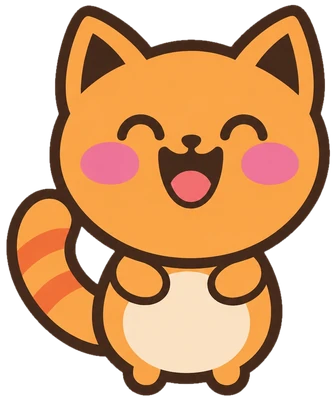
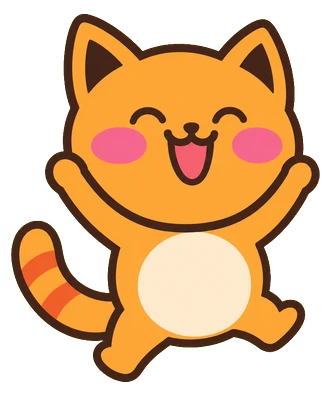
Confidence slider: the cat has a body for each state, leans into a drag and hops between poses (#362)
- Five new poses in place of the five stiff, upright ones (same file names,
  336x400, WebP + PNG, image-generated from the mascot's own cat3-* art):
  worried is crouched small with its tail wrapped and paws to its mouth,
  unsure sits with a paw to its chin, okay is a relaxed lean-back sit, happy
  is perky with its tail up, delighted is mid-hop with its arms up. All five
  share one base line (396 of 400) so they swap in place.
- The cat stands on the rail instead of straddling it, a little larger
  (111x132), and stays inside the sheet at 0 and at 10.
- Motion: it leans a few degrees into a drag and settles when the pointer
  stops or lets go; arrow and other keys give the same lean and settle; a
  small squash-and-hop when it crosses into a new pose; poses cross-fade.
  None of it with prefers-reduced-motion.
- The keyboard focus ring no longer shows while dragging with a pointer.
- Debrief: the "You said / You got" cats are 52px (were 44px) so the new
  full-body poses still read; the row is its own component.
- /design/confidence: a design preview of the slider and the debrief row
  with fixture data (404 in production, like the other previews).

Claude-Session: https://claude.ai/code/session_01TGR4JvJreRsK42GmW4qkjw

diff --git a/src/components/session/confidence-slider.tsx b/src/components/session/confidence-slider.tsx
@@ -1,33 +1,95 @@
 "use client";
 
 import Image from "next/image";
-import { useRef } from "react";
+import { useEffect, useRef, type PointerEvent } from "react";
 import { useI18n } from "@/lib/i18n";
 import "@/lib/i18n/start-check";
 import { cn } from "@/lib/utils";
 import { CONFIDENCE_FACES, CONFIDENCE_MAX, clampConfidence, confidenceCat, confidenceFace, sliderKeyValue, valueFromPointer } from "@/lib/start-check";
 
-/** Half the cat's width: the track is inset by this much so the cat never leaves the sheet. */
-const INSET = 40;
+/** How far the track is inset from the slider's edges, so the cat stays inside the sheet at 0 and at 10. */
+const INSET = 44;
+/** The most the cat tips into a drag, in degrees. */
+const LEAN_MAX = 8;
+/** How long after the last movement the cat stands back up. */
+const SETTLE_MS = 130;
+
+const reducedMotion = () => typeof window !== "undefined" && window.matchMedia("(prefers-reduced-motion: reduce)").matches;
 
 /**
  * "How confident are you?" as one drag. The cat is the handle: it rides the
- * track from 0 to 10 and its face goes from worried to delighted on the way.
- * A real slider for assistive tech (role, value, a spoken "3 out of 10,
- * unsure"), arrow / Page / Home / End / digit keys, and a touch or a drag
- * anywhere on the track.
+ * track from 0 to 10 and its whole body goes from crouched and worried to a
+ * delighted hop on the way. It leans into a drag (or an arrow key) and
+ * settles when it stops, and does a small squash-and-hop when it changes
+ * pose; none of that with reduced motion. A real slider for assistive tech
+ * (role, value, a spoken "3 out of 10, unsure"), arrow / Page / Home / End /
+ * digit keys, and a touch or a drag anywhere on the track.
  */
 export function ConfidenceSlider({ value, onChange, labelledBy, className }: { value: number; onChange: (value: number) => void; labelledBy?: string; className?: string }) {
   const { t } = useI18n();
   const trackRef = useRef<HTMLDivElement>(null);
+  const leanRef = useRef<HTMLDivElement>(null);
+  const hopRef = useRef<HTMLDivElement>(null);
+  const lastX = useRef<number | null>(null);
+  const settle = useRef<ReturnType<typeof setTimeout> | null>(null);
   const v = clampConfidence(value);
   const face = confidenceFace(v);
   const word = t(`startCheck.face.${face}`);
   const pct = (v / CONFIDENCE_MAX) * 100;
 
+  /** Tip the cat `deg` degrees about its feet; it stands back up once nothing has moved for a moment. */
+  const lean = (deg: number) => {
+    const el = leanRef.current;
+    if (!el) return;
+    if (settle.current) clearTimeout(settle.current);
+    settle.current = null;
+    const to = reducedMotion() ? 0 : Math.max(-LEAN_MAX, Math.min(LEAN_MAX, deg));
+    el.style.transform = to ? `rotate(${to.toFixed(1)}deg)` : "";
+    el.dataset.lean = to > 0 ? "right" : to < 0 ? "left" : "none";
+    if (to)
+      settle.current = setTimeout(() => {
+        el.style.transform = "";
+        el.dataset.lean = "none";
+      }, SETTLE_MS);
+  };
+
+  useEffect(
+    () => () => {
+      if (settle.current) clearTimeout(settle.current);
+    },
+    [],
+  );
+
+  // A new pose lands with a small squash and hop, so the swap reads as the cat moving, not a picture changing.
+  const shownFace = useRef(face);
+  useEffect(() => {
+    if (shownFace.current === face) return;
+    shownFace.current = face;
+    if (reducedMotion()) return;
+    hopRef.current?.animate(
+      [
+        { transform: "translateY(0) scale(1, 1)" },
+        { transform: "translateY(0) scale(1.08, 0.9)", offset: 0.22 },
+        { transform: "translateY(-9px) scale(0.96, 1.05)", offset: 0.55 },
+        { transform: "translateY(0) scale(1.04, 0.96)", offset: 0.82 },
+        { transform: "translateY(0) scale(1, 1)" },
+      ],
+      { duration: 360, easing: "ease-out" },
+    );
+  }, [face]);
+
   const fromPointer = (clientX: number) => {
     const rect = trackRef.current?.getBoundingClientRect();
     if (rect) onChange(valueFromPointer(clientX, rect.left, rect.width));
+    // Into the drag: a few degrees for any movement, a little more for a fast one.
+    const dx = lastX.current === null ? 0 : clientX - lastX.current;
+    if (dx) lean(Math.sign(dx) * (3 + Math.abs(dx) * 0.5));
+    lastX.current = clientX;
+  };
+  const release = (e: PointerEvent<HTMLDivElement>) => {
+    delete e.currentTarget.dataset.dragging;
+    lastX.current = null;
+    lean(0);
   };
 
   return (
@@ -49,50 +111,66 @@ export function ConfidenceSlider({ value, onChange, labelledBy, className }: { v
           if (next === null) return;
           e.preventDefault();
           onChange(next);
+          if (next !== v) lean(next > v ? 5 : -5);
         }}
         onPointerDown={(e) => {
           if (e.button !== 0 && e.pointerType === "mouse") return;
           e.currentTarget.setPointerCapture(e.pointerId);
           e.currentTarget.focus({ preventScroll: true });
+          e.currentTarget.dataset.dragging = "true";
+          lastX.current = null;
           fromPointer(e.clientX);
         }}
+        onPointerUp={release}
+        onPointerCancel={release}
+        onLostPointerCapture={release}
         onPointerMove={(e) => {
           if (e.currentTarget.hasPointerCapture(e.pointerId)) fromPointer(e.clientX);
         }}
-        className="group relative h-[136px] w-full cursor-grab touch-none rounded-2xl outline-none active:cursor-grabbing"
+        className="group relative h-[164px] w-full cursor-grab touch-none rounded-2xl outline-none active:cursor-grabbing"
         style={{ paddingInline: INSET }}
       >
         <div ref={trackRef} className="relative h-full w-full">
           {/* The track: a quiet rail, filled in the cat's orange up to the cat. */}
-          <div className="absolute inset-x-0 bottom-[14px] h-3 rounded-full bg-muted" aria-hidden>
-            <div className="h-full rounded-full bg-[#f6a53b] transition-[width] duration-150 ease-out" style={{ width: `${pct}%` }} />
+          <div className="absolute inset-x-0 bottom-[10px] h-3 rounded-full bg-muted" aria-hidden>
+            <div className="h-full rounded-full bg-[#f6a53b] transition-[width] duration-150 ease-out motion-reduce:transition-none" style={{ width: `${pct}%` }} />
           </div>
           {/* One notch a number, so a tap lands where it looks like it will. */}
-          <div className="absolute inset-x-0 bottom-[18px] flex justify-between" aria-hidden>
+          <div className="absolute inset-x-0 bottom-[14px] flex justify-between" aria-hidden>
             {Array.from({ length: CONFIDENCE_MAX + 1 }, (_, i) => (
               <span key={i} className={cn("size-1 -translate-x-1/2 rounded-full first:translate-x-0 last:translate-x-0", i <= v ? "bg-white/80" : "bg-border-strong")} />
             ))}
           </div>
-          {/* The cat. All five faces are mounted so a drag never waits on a download; one shows. */}
+          {/*
+            The cat, standing on the rail: every pose shares one base line (396 of 400), which lands a
+            few pixels into the rail. All five poses are mounted so a drag never waits on a download;
+            one shows, and they cross-fade.
+          */}
           <div
-            className="absolute bottom-[6px] h-[112px] w-[94px] -translate-x-1/2 transition-[left] duration-150 ease-out group-focus-visible:[&>span]:opacity-100"
+            className="absolute bottom-[17px] h-[132px] w-[111px] -translate-x-1/2 transition-[left] duration-150 ease-out motion-reduce:transition-none"
             style={{ left: `${pct}%` }}
+            data-confidence-cat
             aria-hidden
           >
-            <span className="pointer-events-none absolute -inset-x-1 -bottom-1 top-0 rounded-[28px] border-[3px] border-foreground opacity-0" />
-            {CONFIDENCE_FACES.map((f) => (
-              <Image
-                key={f}
-                src={confidenceCat(f)}
-                alt=""
-                width={336}
-                height={400}
-                unoptimized
-                priority={f === face}
-                draggable={false}
-                className={cn("absolute inset-0 h-full w-full object-contain transition-opacity duration-150", f === face ? "opacity-100" : "opacity-0")}
-              />
-            ))}
+            {/* The keyboard focus ring; never while a finger or the mouse is dragging. */}
+            <span className="pointer-events-none absolute -inset-x-1 -bottom-[14px] -top-1.5 rounded-[28px] border-[3px] border-foreground opacity-0 group-focus-visible:opacity-100 group-data-[dragging=true]:opacity-0" />
+            <div ref={leanRef} data-lean="none" className="absolute inset-0 origin-[50%_97%] transition-transform duration-300 ease-[cubic-bezier(0.34,1.56,0.64,1)] will-change-transform motion-reduce:transition-none">
+              <div ref={hopRef} className="absolute inset-0 origin-[50%_99%]">
+                {CONFIDENCE_FACES.map((f) => (
+                  <Image
+                    key={f}
+                    src={confidenceCat(f)}
+                    alt=""
+                    width={336}
+                    height={400}
+                    unoptimized
+                    priority={f === face}
+                    draggable={false}
+                    className={cn("absolute inset-0 h-full w-full object-contain transition-opacity duration-150 ease-out motion-reduce:transition-none", f === face ? "opacity-100" : "opacity-0")}
+                  />
+                ))}
+              </div>
+            </div>
           </div>
         </div>
       </div>

diff --git a/src/components/session/session-debrief.tsx b/src/components/session/session-debrief.tsx
@@ -2,7 +2,7 @@
 
 import { useNewUi } from "@/lib/new-ui";
 import { MathText } from "@/components/ui/markdown-text";
-import { useEffect, useState, type ReactNode } from "react";
+import { useEffect, useState, type CSSProperties, type ReactNode } from "react";
 import { Button } from "@/components/ui/button";
 import Link from "next/link";
 import Image from "next/image";
@@ -54,7 +54,7 @@ import { noteHref } from "@/lib/notes";
 import { track, type DebriefNextKind } from "@/lib/funnel";
 import "@/lib/i18n/purpose";
 import "@/lib/i18n/start-check";
-import { confidenceCat, confidenceFace, confidenceResult, type ConfidenceFace } from "@/lib/start-check";
+import { confidenceCat, confidenceFace, confidenceResult, type ConfidenceFace, type ConfidenceVerdict } from "@/lib/start-check";
 import { difficultyResults, quick5SaidGot } from "@/lib/quick5-confidence";
 import "@/lib/i18n/quick5-confidence";
 import type { ApiSessionDebrief, ApiSessionStats } from "@/lib/api/study-session";
@@ -294,7 +294,7 @@ function AnswerDots({ dots, correct, wrong, href }: { dots: boolean[]; correct: 
 function SaidGot({ face, label, value, max = 10, strong = false }: { face: ConfidenceFace; label: string; value: number; max?: number; strong?: boolean }) {
   return (
     <span className="flex items-center gap-2">
-      <Image src={confidenceCat(face)} alt="" width={336} height={400} unoptimized className="h-11 w-auto" />
+      <Image src={confidenceCat(face)} alt="" width={336} height={400} unoptimized className="h-[52px] w-auto" />
       <span className="flex flex-col">
         <span className="text-caption font-bold leading-4 text-muted-foreground">{label}</span>
         <span className={cn("text-[22px] font-extrabold leading-6 tabular-nums", strong ? "text-foreground" : "text-muted-foreground")}>
@@ -318,6 +318,49 @@ function Quick5ExamLine({ exam, fallback }: { exam: { right: number; total: numb
       <span className="font-extrabold text-foreground">{t("quick5Conf.examLevel").replace("{r}", String(exam.right)).replace("{n}", String(exam.total))}</span>{" "}
       {t(exam.right < exam.total ? "quick5Conf.examLevelMissed" : "quick5Conf.examLevelAll")}
     </p>
+  );
+}
+
+/**
+ * "You said 3/10 → You got 7/10" and what that means: the one comparison only
+ * the debrief can make. A Quick 5 puts its own score on the right ("3/5",
+ * with the cat for the same result out of ten) and its exam-level line below.
+ */
+export function SaidGotRow({
+  said,
+  got,
+  of = 10,
+  gotFace = confidenceFace(got),
+  verdict,
+  spoken,
+  children,
+  className,
+  style,
+}: {
+  said: number;
+  got: number;
+  /** What `got` is out of, when it is not ten. */
+  of?: number;
+  gotFace?: ConfidenceFace;
+  verdict: ConfidenceVerdict;
+  /** The sentence a screen reader hears; "You said a/10, you got b/10" by default. */
+  spoken?: string;
+  /** The line under the cats; the verdict by default. */
+  children?: ReactNode;
+  className?: string;
+  style?: CSSProperties;
+}) {
+  const { t } = useI18n();
+  return (
+    <div className={className} style={style} data-confidence-result={verdict}>
+      <p className="sr-only">{spoken ?? t("finish.saidGot").replace("{a}", String(said)).replace("{b}", String(got))}</p>
+      <div className="flex items-center gap-3" aria-hidden>
+        <SaidGot face={confidenceFace(said)} label={t("finish.said")} value={said} />
+        <ArrowRight className="size-5 shrink-0 text-faint" />
+        <SaidGot face={gotFace} label={t("finish.got")} value={got} max={of} strong />
+      </div>
+      {children ?? <p className="mt-2 text-ui font-semibold text-muted-foreground">{t(`finish.verdict.${verdict}`)}</p>}
+    </div>
   );
 }
 
@@ -712,26 +755,21 @@ export function SessionDebrief({
 
         {/* What they said beside what they got: the one comparison only this screen can make. */}
         {quick ? (
-          <div className="life-rise mt-5 px-1" style={{ ["--i" as string]: 2 }} data-confidence-result={quick.verdict}>
-            <p className="sr-only">{t("quick5Conf.saidGot").replace("{a}", String(quick.said)).replace("{b}", String(quick.got)).replace("{n}", String(quick.of))}</p>
-            <div className="flex items-center gap-3" aria-hidden>
-              <SaidGot face={confidenceFace(quick.said)} label={t("finish.said")} value={quick.said} />
-              <ArrowRight className="size-5 shrink-0 text-faint" />
-              <SaidGot face={confidenceFace(said?.got ?? quick.said)} label={t("finish.got")} value={quick.got} max={quick.of} strong />
-            </div>
+          <SaidGotRow
+            said={quick.said}
+            got={quick.got}
+            of={quick.of}
+            gotFace={confidenceFace(said?.got ?? quick.said)}
+            verdict={quick.verdict}
+            spoken={t("quick5Conf.saidGot").replace("{a}", String(quick.said)).replace("{b}", String(quick.got)).replace("{n}", String(quick.of))}
+            className="life-rise mt-5 px-1"
+            style={{ ["--i" as string]: 2 }}
+          >
             {/* Missed an exam-level one: they were meant to be hard, not a verdict on the student. */}
             <Quick5ExamLine exam={exam} fallback={t(`finish.verdict.${quick.verdict}`)} />
-          </div>
+          </SaidGotRow>
         ) : said ? (
-          <div className="life-rise mt-5 px-1" style={{ ["--i" as string]: 2 }} data-confidence-result={said.verdict}>
-            <p className="sr-only">{t("finish.saidGot").replace("{a}", String(said.said)).replace("{b}", String(said.got))}</p>
-            <div className="flex items-center gap-3" aria-hidden>
-              <SaidGot face={confidenceFace(said.said)} label={t("finish.said")} value={said.said} />
-              <ArrowRight className="size-5 shrink-0 text-faint" />
-              <SaidGot face={confidenceFace(said.got)} label={t("finish.got")} value={said.got} strong />
-            </div>
-            <p className="mt-2 text-ui font-semibold text-muted-foreground">{t(`finish.verdict.${said.verdict}`)}</p>
-          </div>
+          <SaidGotRow said={said.said} got={said.got} verdict={said.verdict} className="life-rise mt-5 px-1" style={{ ["--i" as string]: 2 }} />
         ) : exam ? (
           <div className="life-rise mt-5 px-1" style={{ ["--i" as string]: 2 }}>
             <Quick5ExamLine exam={exam} />

diff --git a/src/app/design/confidence/page.tsx b/src/app/design/confidence/page.tsx
@@ -1,0 +1,47 @@
+"use client";
+
+import { useSearchParams } from "next/navigation";
+import { Suspense } from "react";
+import { StartCheckSheet } from "@/components/session/start-check-host";
+import { SaidGotRow } from "@/components/session/session-debrief";
+import { confidenceFace, confidenceResult } from "@/lib/start-check";
+
+/**
+ * Design preview of the start check's cat slider and the debrief's "You said /
+ * You got" row, with fixture data and no network. `?v=6` opens the slider on
+ * a score; `?view=debrief` shows the row for each pose.
+ */
+function Inner() {
+  const q = useSearchParams();
+  if (q.get("view") === "debrief") {
+    const rows = [confidenceResult(1, 4, 10)!, confidenceResult(3, 7, 10)!, confidenceResult(6, 6, 10)!, confidenceResult(8, 9, 10)!, confidenceResult(10, 8, 10)!];
+    return (
+      <main className="mx-auto min-h-dvh max-w-[640px] bg-background px-5 py-8">
+        <h1 className="text-[28px] font-extrabold tracking-tight">7 of 10 right</h1>
+        <p className="mt-1 text-ui text-muted-foreground">Cell membranes · 12 min</p>
+        {rows.map((r, i) => (
+          <SaidGotRow key={i} said={r.said} got={r.got} verdict={r.verdict} className="mt-6 px-1" />
+        ))}
+        {/* A Quick 5: its own score out of five, and the exam-level line. */}
+        <SaidGotRow said={7} got={3} of={5} gotFace={confidenceFace(6)} verdict="asExpected" className="mt-6 px-1">
+          <p className="mt-2 text-ui font-semibold text-muted-foreground">
+            <span className="font-extrabold text-foreground">Exam-level: 1 of 2.</span> Those are pitched at the real exam.
+          </p>
+        </SaidGotRow>
+      </main>
+    );
+  }
+  return (
+    <div className="fixed inset-0 flex items-end justify-center bg-foreground/30 sm:items-center sm:p-4">
+      <StartCheckSheet request={{ what: "Cell membranes", topicNames: ["Cell membranes"], papers: [], paperId: null }} onAnswer={() => {}} initial={Number(q.get("v") ?? 5)} />
+    </div>
+  );
+}
+
+export default function Page() {
+  return (
+    <Suspense>
+      <Inner />
+    </Suspense>
+  );
+}

diff --git a/src/lib/start-check.ts b/src/lib/start-check.ts
@@ -19,13 +19,19 @@ export const CONFIDENCE_FACES: ConfidenceFace[] = ["worried", "unsure", "neutral
 
 export const clampConfidence = (n: number) => Math.min(CONFIDENCE_MAX, Math.max(0, Math.round(Number.isFinite(n) ? n : CONFIDENCE_START)));
 
-/** The cat's face along the scale: worried 0-2, unsure 3-4, neutral 5-6, happy 7-8, delighted 9-10. */
+/**
+ * The cat's pose along the scale: worried 0-2 (crouched small, tail wrapped), unsure 3-4 (sitting, paw to
+ * chin), neutral 5-6 (a relaxed sit), happy 7-8 (perky, tail up), delighted 9-10 (mid-hop, arms up).
+ */
 export function confidenceFace(value: number): ConfidenceFace {
   const v = clampConfidence(value);
   return v <= 2 ? "worried" : v <= 4 ? "unsure" : v <= 6 ? "neutral" : v <= 8 ? "happy" : "delighted";
 }
 
-/** The round orange cat with that face (image-generated from the mascot's own art, public/design). */
+/**
+ * The round orange cat in that pose (image-generated from the mascot's own art, public/design). All five
+ * are 336×400 with the feet on one base line, 396px down, so they can be swapped in place.
+ */
 export const confidenceCat = (face: ConfidenceFace) => `/design/cat3-${face}.webp`;
 
 /**
